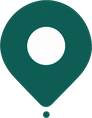
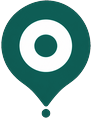
Pinos novos do mapa: gota com anel branco (07/10/2026)
Desenhos do Simão (desenho/imagens/Pinos 07-10, fora do git), recortados
por scripts/recortar-pinos-novos.py com as funções do
recortar-novos-icones.py: o preto sai, o anel branco fica, o verde vai a
#0E5C54 ao pixel (a cor da linha da rota), o coral fica como veio. Mesmo
tamanho dos anteriores, ao ponto: 46x59 e 26x33 (os pequenos), em três
densidades. O ponto de baixo é maior e o centro dele sobe: ANCORA_Y passa
de 0,9689 a 0,9605 (recolha 0,9576, destino 0,9633). A mira usa as
mesmas imagens.

diff --git a/mobile/src/components/MapaGoogle.js b/mobile/src/components/MapaGoogle.js
@@ -317,7 +317,11 @@ const ALTERNATIVA_PERTO_M = 300;
 // `scripts/recortar-novos-icones.py` a produzir 46x59, deu 0,9689.
 // (Mudou com os pinos novos de 22/09: o desenho é menos alto e o ponto
 // está mais em baixo — 0,941 apontaria acima do sítio.)
-const ANCORA_Y = 0.9689;
+// (E outra vez com os de 07/10, de anel branco, feitos por
+// `scripts/recortar-pinos-novos.py`: o ponto de baixo é maior e o centro dele
+// sobe — recolha 0,9576, destino 0,9633. Um número para os dois, o do meio:
+// fica a menos de 0,2 pontos de cada um.)
+const ANCORA_Y = 0.9605;
 
 // QUANTO A MIRA SOBE PARA A PONTA CAIR NO CENTRO DO ECRÃ.
 //

diff --git a/mobile/scripts/recortar-pinos-novos.py b/mobile/scripts/recortar-pinos-novos.py
@@ -1,0 +1,93 @@
+#!/usr/bin/env python3
+"""Os pinos novos do Simão (07/10/2026): gota com ANEL branco e ponto por baixo.
+
+ENTRADA  desenho/imagens/Pinos 07-10/pino {recolha,destino}.png  (fora do git)
+SAÍDA    assets/mapa/pino-{origem,destino}{,-pequeno}{,@2x,@3x}.png
+
+O MESMO TAMANHO DOS ANTERIORES, ao ponto — foi o pedido. Os grandes ficam em
+46 × 59 e os pequenos (as paragens alternativas) em 26 × 33: a altura é a dos
+ficheiros antigos, e a arte, um pouco mais estreita, fica ao centro da mesma
+largura. Assim nada à volta muda de lugar no ecrã.
+
+O PONTO DE BAIXO É A ÂNCORA. O marcador aponta ao sítio pelo centro do ponto
+por baixo da ponta (`ANCORA_Y` no MapaGoogle.js). Este guião mede onde esse
+ponto ficou e escreve-o no fim, para conferir com a constante.
+
+As funções de recorte e de cor são as do recortar-novos-icones.py: o preto
+sai em todo o sítio (o anel branco fica, é o miolo do pino) e o verde vai para
+#0E5C54, ao pixel, a cor da linha da rota. O coral fica como veio.
+
+Correr:  python3 scripts/recortar-pinos-novos.py
+"""
+
+import importlib.util
+import os
+
+from PIL import Image
+
+AQUI = os.path.dirname(os.path.abspath(__file__))
+_spec = importlib.util.spec_from_file_location('icones', os.path.join(AQUI, 'recortar-novos-icones.py'))
+icones = importlib.util.module_from_spec(_spec)
+_spec.loader.exec_module(icones)
+
+ORIGEM = os.path.abspath(os.path.join(AQUI, '..', '..', 'desenho', 'imagens', 'Pinos 07-10'))
+DESTINO = os.path.join(AQUI, '..', 'assets', 'mapa')
+
+# A luminosidade do corpo teal destes desenhos (#017D82), medida: com ela o
+# corpo sai exactamente em #0E5C54.
+L_CORPO_RECOLHA = (130 + 1) / 2 / 255
+
+# nome de saída -> (ficheiro, tamanho em pontos, pintar de teal?)
+PINOS = {
+    'pino-origem': ('pino recolha.png', (46, 59), True),
+    'pino-destino': ('pino destino.png', (46, 59), False),
+    'pino-origem-pequeno': ('pino recolha.png', (26, 33), True),
+    'pino-destino-pequeno': ('pino destino.png', (26, 33), False),
+}
+
+
+def arte(ficheiro, teal):
+    caminho = os.path.join(ORIGEM, ficheiro)
+    if not os.path.exists(caminho):
+        raise SystemExit(f'falta o ficheiro: {caminho}')
+    if teal:
+        return icones.sem_preto(caminho, alvo=icones.PINO_TEAL, l_origem=L_CORPO_RECOLHA)
+    # O coral não passa pelo repintar: _teal() não o reconhece, e fica como veio.
+    return icones.sem_preto(caminho)
+
+
+def ponto_de_baixo(im):
+    """O centro vertical do ponto por baixo da ponta, em fracção da altura."""
+    alfa = im.split()[3]
+    w, h = im.size
+    linhas = [y for y in range(h) if any(alfa.getpixel((x, y)) > 127 for x in range(w))]
+    # De baixo para cima: o ponto acaba onde aparece a primeira linha vazia.
+    fundo = linhas[-1]
+    topo = fundo
+    while topo - 1 in linhas:
+        topo -= 1
+    return (topo + fundo + 1) / 2 / h
+
+
+def gravar(im, nome, tamanho):
+    w, h = tamanho
+    for sufixo, escala in (('', 1), ('@2x', 2), ('@3x', 3)):
+        altura = h * escala
+        largura = round(im.width * altura / im.height)
+        reduzida = im.resize((largura, altura), Image.LANCZOS)
+        tela = Image.new('RGBA', (w * escala, altura), (0, 0, 0, 0))
+        tela.paste(reduzida, ((w * escala - largura) // 2, 0), reduzida)
+        tela.save(os.path.join(DESTINO, f'{nome}{sufixo}.png'))
+        if escala == 3:
+            final = tela
+    return final
+
+
+def main():
+    for nome, (ficheiro, tamanho, teal) in PINOS.items():
+        im = gravar(arte(ficheiro, teal), nome, tamanho)
+        print(f'{nome:22} {tamanho[0]}x{tamanho[1]}  ponto de baixo a {ponto_de_baixo(im):.4f} da altura')
+
+
+if __name__ == '__main__':
+    main()
